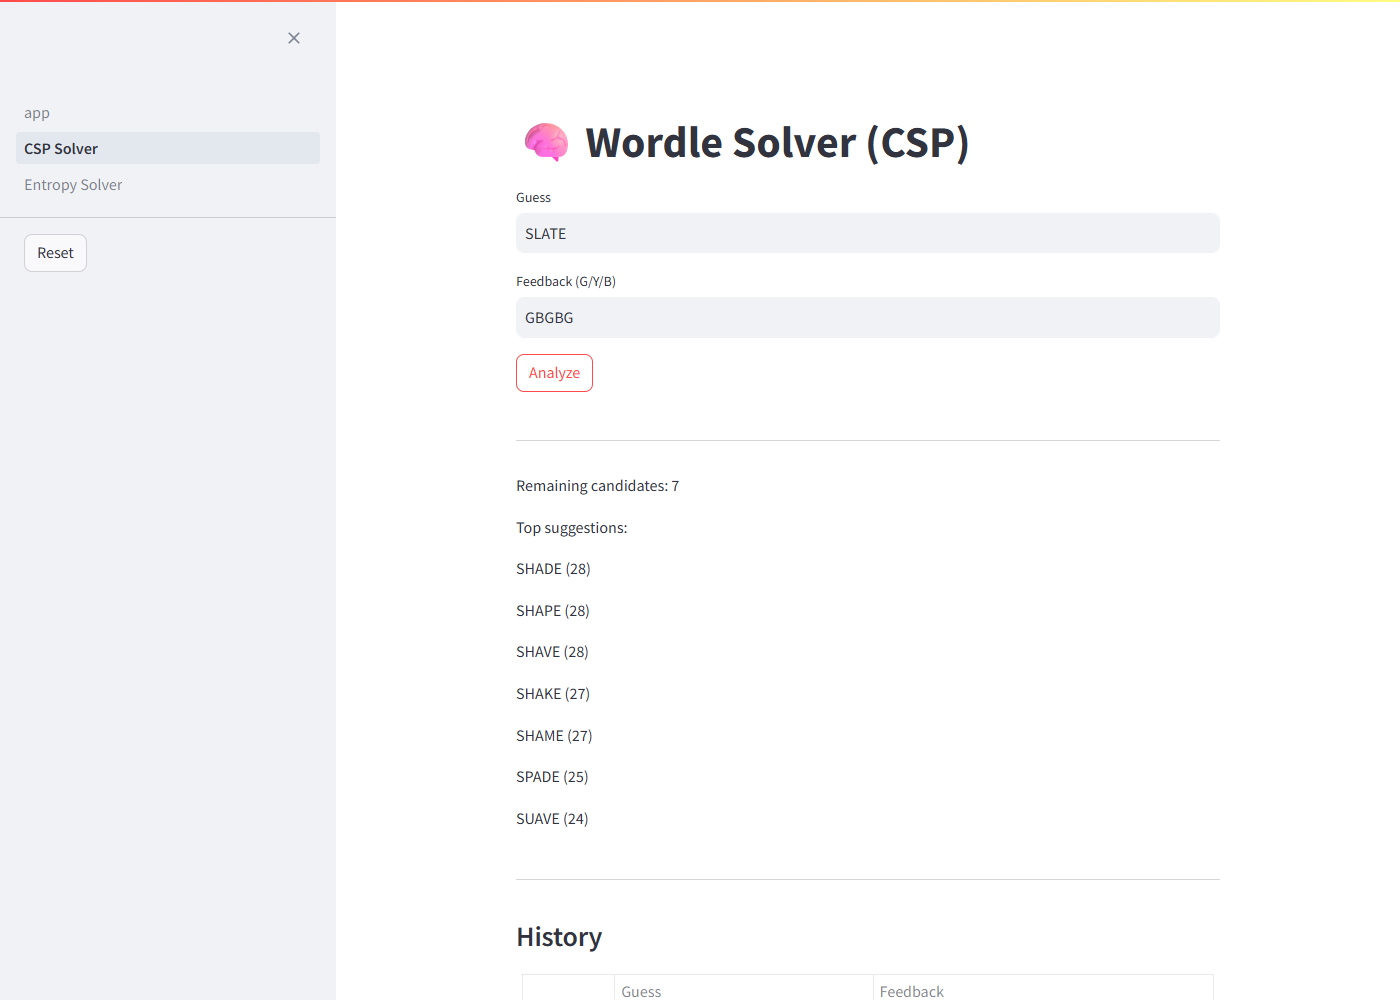
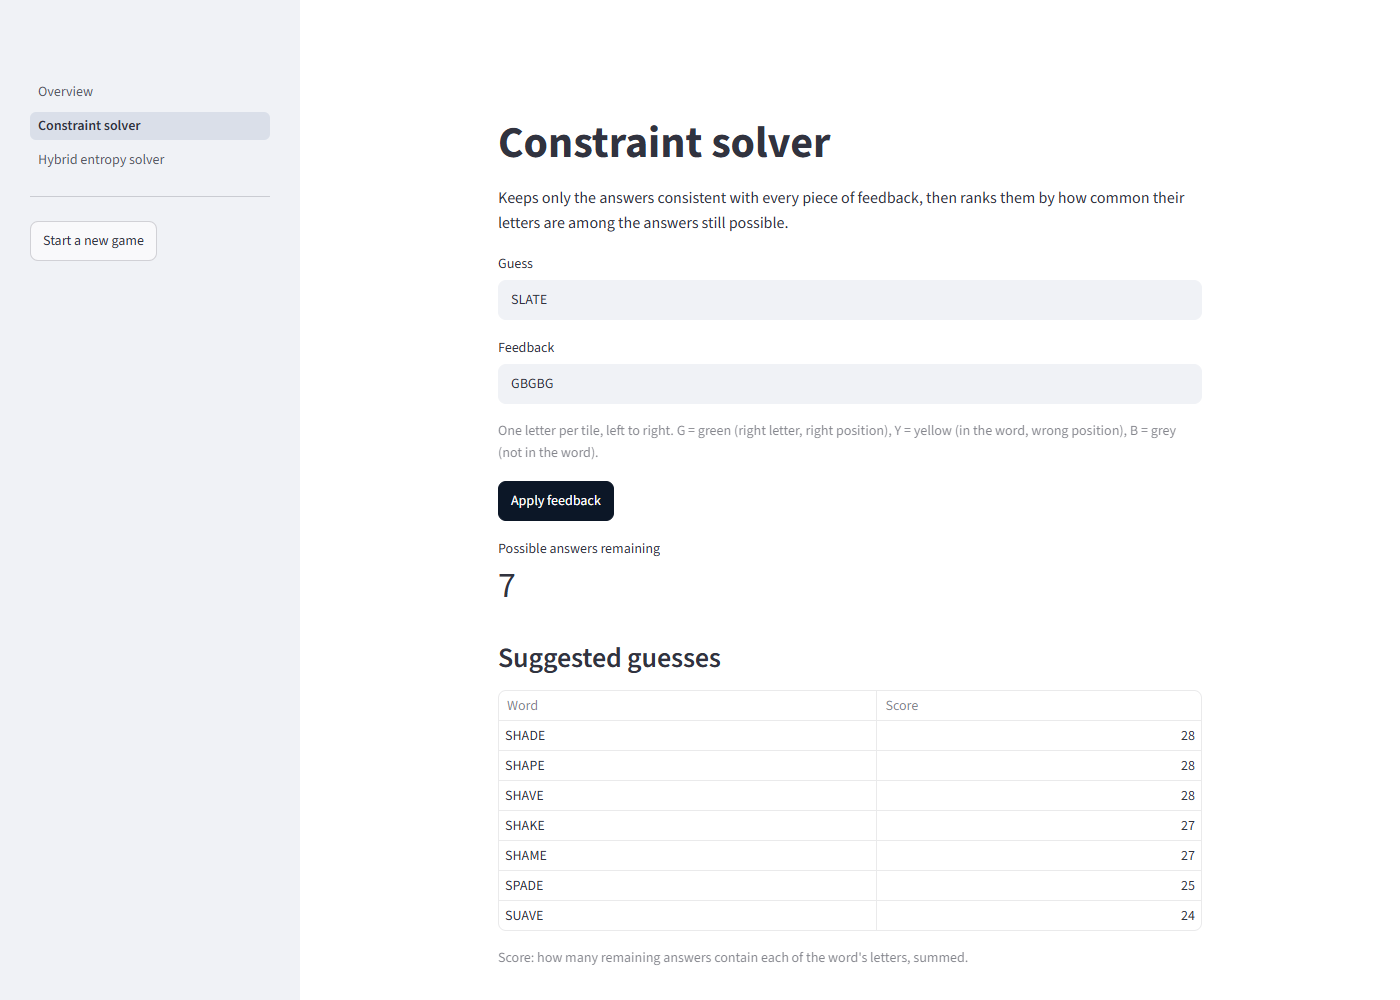
Professional UI: navigation, plain copy, no emojis
- st.navigation with named pages (Overview, Constraint solver, Hybrid entropy
  solver) replaces the pages/ folder and its 'app' sidebar entry
- Overview page summarises both methods with benchmark results
- Solver pages: plain labels, feedback key explained, remaining answers as a
  metric, suggestions as a table, clear solved / no-match / out-of-guesses states
- Session error messages reworded
- Monogram favicon, minimal toolbar, light theme via .streamlit/config.toml
- Requires Streamlit 1.44+; smoke tests use AppTest on every page
- README screenshots refreshed

diff --git a/wordle_solver/app/pages.py b/wordle_solver/app/pages.py
@@ -1,4 +1,4 @@
-"""Streamlit rendering for the solver pages. Imported by the thin files in ``pages/``."""
+"""Streamlit rendering for the app. ``app.py`` wires these into the navigation."""
 
 from __future__ import annotations
 
@@ -7,10 +7,18 @@ import logging
 import pandas as pd
 import streamlit as st
 
+from wordle_solver import config
 from wordle_solver.app.session import GameSession, InvalidMoveError
 from wordle_solver.wordlists import WordListError, WordLists, load_word_lists
 
 logger = logging.getLogger(__name__)
+
+FEEDBACK_HELP = (
+    "One letter per tile, left to right. "
+    "G = green (right letter, right position), "
+    "Y = yellow (in the word, wrong position), "
+    "B = grey (not in the word)."
+)
 
 
 @st.cache_data
@@ -23,7 +31,7 @@ def _lists_or_stop() -> WordLists:
         return _cached_lists()
     except WordListError as exc:
         logger.exception("Failed to load word lists")
-        st.error(f"Could not load word lists: {exc}")
+        st.error(f"The word lists could not be loaded: {exc}")
         st.stop()
         raise  # pragma: no cover - st.stop raises
 
@@ -35,66 +43,117 @@ def _session(key: str, lists: WordLists) -> GameSession:
 
 
 def _inputs(session: GameSession, key: str) -> None:
-    if st.sidebar.button("Reset", key=f"{key}_reset"):
+    if st.sidebar.button("Start a new game", key=f"{key}_reset"):
         session.reset()
         st.rerun()
-    if not session.history:
-        st.info("Start with your first guess")
-    guess = st.text_input("Guess", key=f"{key}_guess")
-    fb = st.text_input("Feedback (G/Y/B)", key=f"{key}_fb")
-    if st.button("Analyze", key=f"{key}_analyze"):
+    guess = st.text_input("Guess", key=f"{key}_guess", placeholder="e.g. CRANE", max_chars=5)
+    fb = st.text_input("Feedback", key=f"{key}_fb", placeholder="e.g. BYBBG", max_chars=5)
+    st.caption(FEEDBACK_HELP)
+    if st.button("Apply feedback", key=f"{key}_analyze", type="primary"):
         try:
             session.apply(guess, fb)
         except InvalidMoveError as exc:
             st.warning(str(exc))
 
 
+def _status(session: GameSession) -> bool:
+    """Show the game state. Returns True when there is nothing left to suggest."""
+    if session.solved:
+        st.success(f"Solved in {len(session.history)} guesses.")
+        return True
+    if not session.candidates:
+        st.error(
+            "No answer in the word list matches this feedback. "
+            "Check the letters you entered, or start a new game."
+        )
+        return True
+    if session.finished:
+        st.warning(f"All {config.MAX_GUESSES} guesses have been used.")
+        return True
+    st.metric("Possible answers remaining", len(session.candidates))
+    return False
+
+
 def _history(session: GameSession) -> None:
-    st.markdown("---")
-    st.subheader("History")
+    st.divider()
+    st.subheader("Guesses so far")
     if session.history:
-        st.table(pd.DataFrame(session.history, columns=["Guess", "Feedback"]))
+        table = pd.DataFrame(session.history, columns=["Guess", "Feedback"])
+        table.index = range(1, len(table) + 1)
+        table.index.name = "Turn"
+        st.table(table)
     else:
-        st.info("No guesses yet.")
+        st.write("No guesses yet. Enter your first guess and the feedback Wordle gave you.")
+
+
+def render_overview_page() -> None:
+    st.title("Wordle Solver")
+    st.write(
+        "Suggests the next Wordle guess from the feedback you have so far, using one of "
+        "two methods. Both were tested on all 2,315 official Wordle answers."
+    )
+    st.table(
+        pd.DataFrame(
+            {
+                "Method": ["Constraint solver", "Hybrid entropy solver"],
+                "How it picks a guess": [
+                    "The remaining answer that shares the most common letters",
+                    "The guess that splits the remaining answers most evenly, "
+                    "then the most likely answer once few remain",
+                ],
+                "Games won": ["99.05%", "99.78%"],
+                "Average guesses": ["3.65", "3.68"],
+                "Time per game": ["78 ms", "1.0 s"],
+            }
+        ).set_index("Method")
+    )
+    st.subheader("How to use it")
+    st.markdown(
+        "1. Choose a solver from the sidebar.\n"
+        "2. Enter the word you guessed in Wordle.\n"
+        "3. Enter the colours Wordle showed, as five letters: "
+        "**G** for green, **Y** for yellow, **B** for grey.\n"
+        "4. The solver narrows the possible answers and suggests your next guess."
+    )
 
 
 def render_csp_page() -> None:
-    st.set_page_config(page_title="Wordle Solver (CSP)", page_icon="🧠")
-    st.title("🧠 Wordle Solver (CSP)")
+    st.title("Constraint solver")
+    st.write(
+        "Keeps only the answers consistent with every piece of feedback, then ranks them "
+        "by how common their letters are among the answers still possible."
+    )
     lists = _lists_or_stop()
     session = _session("csp_session", lists)
     _inputs(session, "csp")
-    if session.history:
-        st.markdown("---")
-        if session.solved:
-            st.success(f"🎉 Solved in {len(session.history)} guesses!")
-        elif not session.candidates:
-            st.error("No candidates match that feedback - check your inputs or reset.")
-        else:
-            st.write(f"Remaining candidates: {len(session.candidates)}")
-            st.write("Top suggestions:")
-            for w, s in session.csp_suggestions(10):
-                st.write(f"{w} ({s})")
+    if session.history and not _status(session):
+        st.subheader("Suggested guesses")
+        suggestions = pd.DataFrame(session.csp_suggestions(10), columns=["Word", "Score"])
+        suggestions.index = range(1, len(suggestions) + 1)
+        st.table(suggestions)
+        st.caption("Score: how many remaining answers contain each of the word's letters, summed.")
     _history(session)
 
 
 def render_entropy_page() -> None:
-    st.set_page_config(page_title="Hybrid Solver", page_icon="🤖")
-    st.title("🤖 Wordle Solver (Hybrid)")
+    st.title("Hybrid entropy solver")
+    st.write(
+        "While many answers remain, suggests the guess expected to eliminate the most of them, "
+        "even if it cannot be the answer itself. Once "
+        f"{config.ENTROPY_THRESHOLD} or fewer remain, it suggests the most likely answer."
+    )
     lists = _lists_or_stop()
     session = _session("entropy_session", lists)
     _inputs(session, "entropy")
-    if session.history:
-        st.markdown("---")
-        if session.solved:
-            st.success(f"🎉 Solved in {len(session.history)} guesses!")
-        else:
-            st.subheader(f"Round {len(session.history)}")
-            st.write(f"Remaining candidates: {len(session.candidates)}")
-            suggestion = session.hybrid_suggestion(lists.guesses)
-            if suggestion is None:
-                st.error("No candidates match that feedback - check your inputs or reset.")
-            else:
-                word, method = suggestion
-                st.write(f"Best guess ({method}): {word}")
+    if session.history and not _status(session):
+        suggestion = session.hybrid_suggestion(lists.guesses)
+        if suggestion is not None:
+            word, method = suggestion
+            reason = (
+                "chosen to split the remaining answers as evenly as possible"
+                if method == "entropy"
+                else "the most likely remaining answer"
+            )
+            st.markdown(f"**Suggested next guess: {word}**")
+            st.caption(reason.capitalize() + ".")
     _history(session)

diff --git a/tests/test_parity_and_smoke.py b/tests/test_parity_and_smoke.py
@@ -55,18 +55,44 @@ def test_package_imports():
     import wordle_solver.eval.benchmark  # noqa: F401
 
 
-@pytest.mark.parametrize("script", ["app.py", "pages/1_CSP_Solver.py", "pages/2_Entropy_Solver.py"])
-def test_streamlit_scripts_run(script):
+def _overview():
+    from wordle_solver.app.pages import render_overview_page
+
+    render_overview_page()
+
+
+def _csp():
+    from wordle_solver.app.pages import render_csp_page
+
+    render_csp_page()
+
+
+def _entropy():
+    from wordle_solver.app.pages import render_entropy_page
+
+    render_entropy_page()
+
+
+def test_app_entry_point_runs():
     from streamlit.testing.v1 import AppTest
 
-    at = AppTest.from_file(str(ROOT / script), default_timeout=60).run()
+    at = AppTest.from_file(str(ROOT / "app.py"), default_timeout=60).run()
+    assert not at.exception
+    assert at.title[0].value == "Wordle Solver"
+
+
+@pytest.mark.parametrize("page", [_overview, _csp, _entropy])
+def test_pages_render(page):
+    from streamlit.testing.v1 import AppTest
+
+    at = AppTest.from_function(page, default_timeout=60).run()
     assert not at.exception
 
 
 def test_csp_page_interaction():
     from streamlit.testing.v1 import AppTest
 
-    at = AppTest.from_file(str(ROOT / "pages/1_CSP_Solver.py"), default_timeout=60).run()
+    at = AppTest.from_function(_csp, default_timeout=60).run()
     at.text_input(key="csp_guess").input("slate")
     at.text_input(key="csp_fb").input("BBBBX")
     at.button(key="csp_analyze").click().run()
@@ -74,7 +100,18 @@ def test_csp_page_interaction():
     at.text_input(key="csp_fb").input("BBBBB")
     at.button(key="csp_analyze").click().run()
     assert not at.exception
-    assert any("Remaining candidates" in str(m.value) for m in at.markdown)
+    assert [m.label for m in at.metric] == ["Possible answers remaining"]
+
+
+def test_entropy_page_suggests_a_guess():
+    from streamlit.testing.v1 import AppTest
+
+    at = AppTest.from_function(_entropy, default_timeout=120).run()
+    at.text_input(key="entropy_guess").input("TARES")
+    at.text_input(key="entropy_fb").input("BYBYY")
+    at.button(key="entropy_analyze").click().run()
+    assert not at.exception
+    assert any("Suggested next guess" in m.value for m in at.markdown)
 
 
 def test_legacy_script_is_untouched_runnable():

diff --git a/wordle_solver/app/session.py b/wordle_solver/app/session.py
@@ -42,13 +42,15 @@ class GameSession:
         guess = (guess or "").strip().upper()
         pattern = (pattern or "").strip().upper()
         if not is_valid_word(guess):
-            raise InvalidMoveError("Guess must be exactly 5 letters (A-Z).")
+            raise InvalidMoveError("Guess must be a 5-letter word using the letters A to Z.")
         if not is_valid_pattern(pattern):
-            raise InvalidMoveError("Feedback must be exactly 5 characters of G, Y or B.")
+            raise InvalidMoveError("Feedback must be 5 letters, each G, Y or B.")
         if self.solved:
-            raise InvalidMoveError("Already solved - reset to start a new game.")
+            raise InvalidMoveError("This game is already solved. Start a new game to play again.")
         if len(self.history) >= config.MAX_GUESSES:
-            raise InvalidMoveError(f"Max {config.MAX_GUESSES} guesses reached - reset.")
+            raise InvalidMoveError(
+                f"Max {config.MAX_GUESSES} guesses reached. Start a new game to play again."
+            )
         self.history.append((guess, pattern))
         if pattern != config.SOLVED_PATTERN:
             self.candidates = filter_candidates(self.candidates, guess, pattern)

diff --git a/app.py b/app.py
@@ -1,15 +1,14 @@
 import streamlit as st
 
-st.set_page_config(page_title="Wordle Solver", layout="centered", page_icon="🧩")
+from wordle_solver.app.pages import render_csp_page, render_entropy_page, render_overview_page
 
-st.title("🧩 Wordle Solver")
-st.markdown("""
-An intelligent Wordle solver that combines **constraint-based reasoning (CSP)**
-and **entropy-driven optimization** to minimize guesses
-and efficiently converge to the correct solution.
+st.set_page_config(page_title="Wordle Solver", page_icon="assets/favicon.png", layout="centered")
 
-The system uses a hybrid strategy to balance exploration and exploitation,
-enabling near-optimal performance.
-
-Use the sidebar to explore different solving approaches and analyze Wordle gameplay step-by-step.
-""")
+navigation = st.navigation(
+    [
+        st.Page(render_overview_page, title="Overview", url_path="overview", default=True),
+        st.Page(render_csp_page, title="Constraint solver", url_path="constraint-solver"),
+        st.Page(render_entropy_page, title="Hybrid entropy solver", url_path="entropy-solver"),
+    ]
+)
+navigation.run()

diff --git a/README.md b/README.md
@@ -57,21 +57,15 @@ That same feedback function is used during evaluation, so the solver is tested a
 
 ## App
 
-The Streamlit app exposes the two approaches separately:
+The Streamlit app has three pages: an overview comparing the two methods, the constraint solver, and the hybrid entropy solver.
 
-```text
-Wordle Solver
-├── CSP Solver
-└── Hybrid Entropy Solver
-```
-
-For either approach, enter a five-letter guess and the resulting `G/Y/B` pattern. The app keeps the candidate state, shows the number of remaining solutions, suggests the next guess, and records the guess history.
+On either solver page, enter a five-letter guess and the resulting `G/Y/B` pattern. The app keeps the candidate state, shows the number of remaining solutions, suggests the next guess, and records the guess history.
 
 <p align="center">
-  <img src="docs/screenshots/wordle_csp.png" alt="CSP solver narrowing to 7 candidates" width="49%">
-  <img src="docs/screenshots/wordle_entropy.png" alt="Hybrid solver choosing an entropy guess" width="49%">
+  <img src="docs/screenshots/wordle_csp.png" alt="Constraint solver with 7 possible answers ranked" width="49%">
+  <img src="docs/screenshots/wordle_entropy.png" alt="Hybrid solver suggesting a next guess" width="49%">
 </p>
-<p align="center"><em>CSP solver after two guesses, down to 7 candidates (left). Hybrid solver picking an information-gain guess from 28 candidates (right).</em></p>
+<p align="center"><em>Constraint solver after two guesses: 7 possible answers, ranked (left). Hybrid solver suggesting the guess that best splits 28 possible answers (right).</em></p>
 
 ## Architecture
 
@@ -92,8 +86,8 @@ flowchart LR
 
 ```text
 .
-├── app.py                     # Streamlit entry point
-├── pages/                     # thin Streamlit page wrappers
+├── app.py                     # Streamlit entry point and navigation
+├── assets/, .streamlit/       # favicon and Streamlit settings
 ├── wordle_solver/
 │   ├── config.py              # paths, limits, pool sizes (env overridable)
 │   ├── feedback.py            # Wordle feedback + candidate filtering
@@ -136,7 +130,7 @@ python scripts/mutation_test.py   # mutation score for the core logic
 
 - **Unit tests** for feedback (including repeated letters), scoring, entropy, both solvers, word-list validation and the app session state.
 - **Parity tests** check the refactored package against the original `evaluation.py` (kept verbatim in `tests/legacy/`): feedback on 3,000 random word pairs, scoring and entropy, and solver guess sequences.
-- **Smoke tests** run `app.py` and both pages with Streamlit's `AppTest`, including invalid-feedback handling.
+- **Smoke tests** run `app.py` and every page with Streamlit's `AppTest`, including invalid feedback and a hybrid suggestion.
 - **Mutation testing**: `scripts/mutation_test.py` applies 64 operator and constant mutations to the feedback, solver and session modules; **57 are killed (89.1%)**. The 7 survivors change only error-message text, comments, or swap `None` for `""` as a consumed-letter marker, none of which alter behaviour. Details: [`docs/mutation_results.md`](docs/mutation_results.md).
 
 ## What I was interested in
